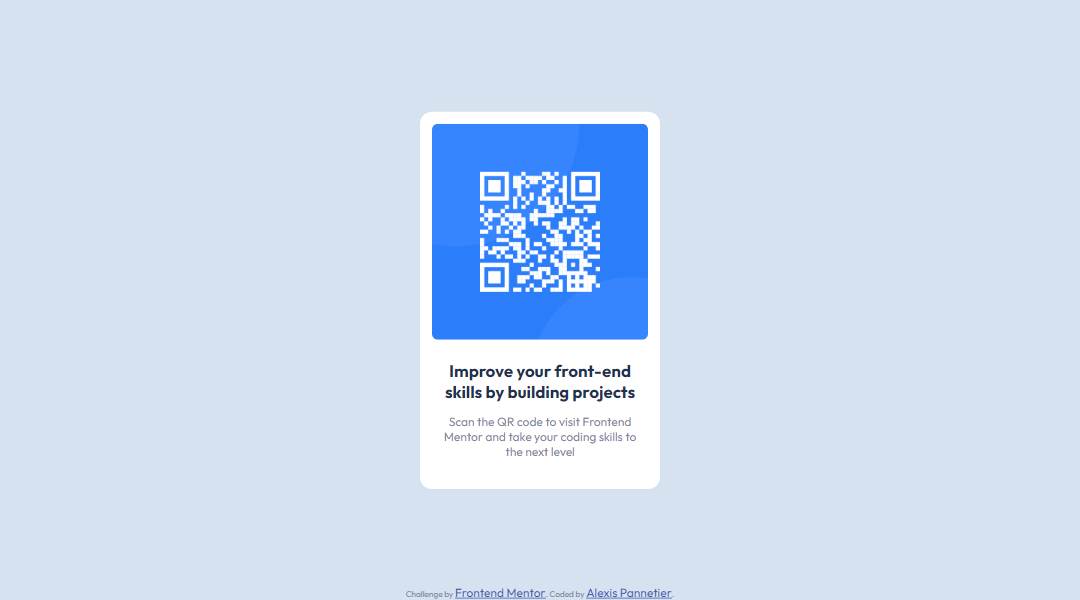
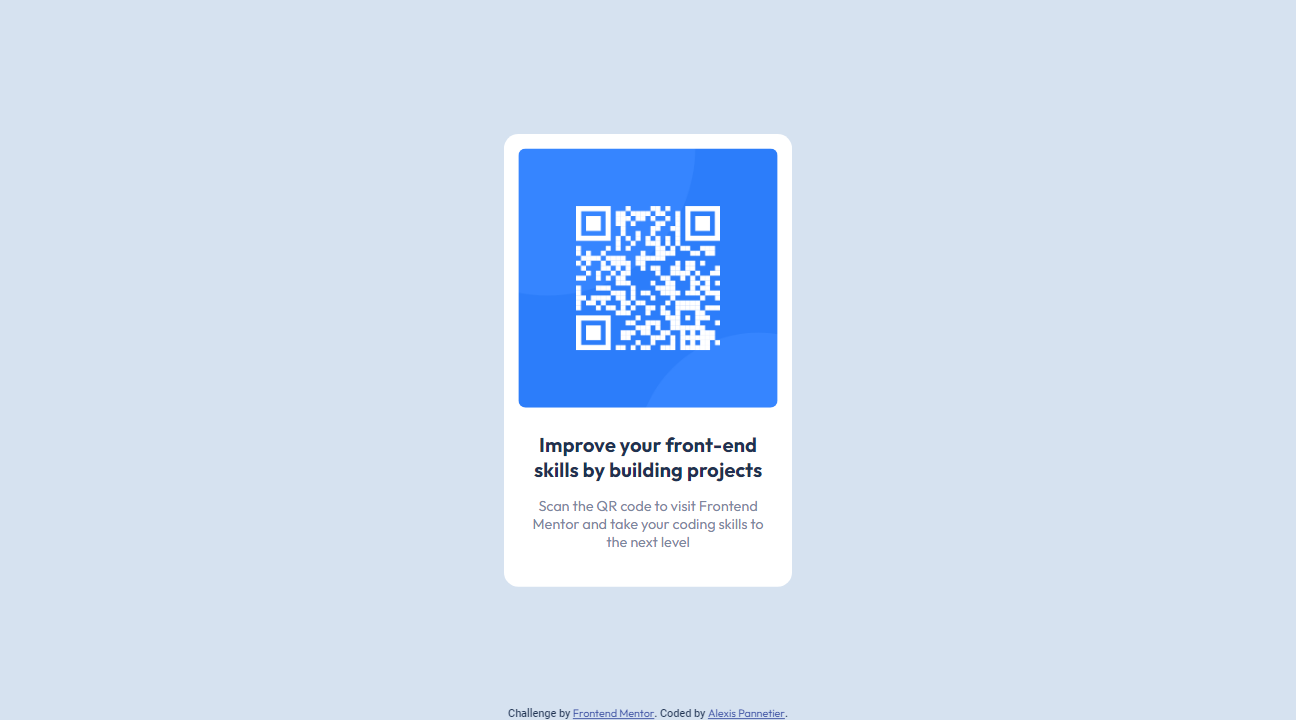
📝 minor update

diff --git a/index.html b/index.html
@@ -33,7 +33,9 @@
     <footer>
       <div class="attribution">
         Challenge by
-        <a href="https://www.frontendmentor.io?ref=challenge" target="_blank"
+        <a
+          href="https://www.frontendmentor.io/solutions/responsive-qr-code-component-T2e_hCX3Lk"
+          target="_blank"
           >Frontend Mentor</a
         >. Coded by
         <a href="https://github.com/Alexis-Pannetier">Alexis Pannetier</a>.

diff --git a/style.css b/style.css
@@ -41,7 +41,6 @@ main {
   justify-content: center;
   align-items: center;
   box-sizing: border-box;
-
   min-height: 100vh;
 }
 
@@ -79,11 +78,14 @@ footer {
 
 /* ATTRIBUTION */
 .attribution {
-  font-size: 11px;
+  font-family: roboto;
+  font-size: 0.75rem;
   text-align: center;
+  color: var(--dark-blue);
 }
 
 .attribution a {
+  font-size: 0.75rem;
   color: var(--link);
 }
 

diff --git a/README.md b/README.md
@@ -27,7 +27,7 @@ Mobile
 
 ### Links
 
-- Live Site URL: [démonstration](https://qrcode-component-main.netlify.app/)
+- Live Site URL: [Demonstration](https://pannetouch-qrcode.netlify.app)
 
 ## My process
 
